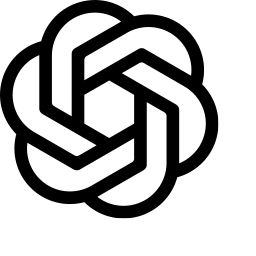
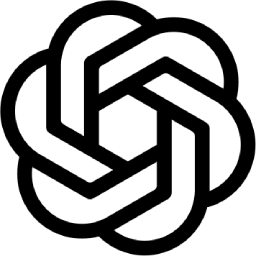
refactor(vscode): rename extension from Codex Helper to Agent Helper
Update package name, display name, command IDs, output channel name,
repository URLs, icon, and README to reflect the extension's broader
scope of supporting coding agents beyond Codex CLI.

diff --git a/vscode/src/extension.ts b/vscode/src/extension.ts
@@ -3,9 +3,9 @@ import { sendReference, type SendResult } from "./core/sendReference";
 import type { ReferenceInput } from "./core/reference";
 import { CodexTerminalRegistry } from "./vscode/terminalRegistry";
 
-const SEND_COMMAND = "codexHelper.sendToCodex";
-const SHOW_STATE_COMMAND = "codexHelper.showDetectionState";
-const OUTPUT_CHANNEL = "Codex Helper";
+const SEND_COMMAND = "agentHelper.sendToCodex";
+const SHOW_STATE_COMMAND = "agentHelper.showDetectionState";
+const OUTPUT_CHANNEL = "Agent Helper";
 
 export function activate(context: vscode.ExtensionContext): void {
   const log = vscode.window.createOutputChannel(OUTPUT_CHANNEL, { log: true });

diff --git a/vscode/README.md b/vscode/README.md
@@ -1,8 +1,8 @@
-# Codex Helper for VS Code
+# Agent Helper for VS Code
 
-Send the active editor file and selected line range to every Codex CLI instance running in the current VS Code window's integrated Terminal.
+Agent Helper sends the active editor file and selected line range to supported coding agents running in the current VS Code window's integrated Terminal. Codex CLI is currently supported.
 
-Select some lines and choose **Send to Codex ✨**. Each Codex input receives the same Reference, such as `src/Foo.ts#L10-L20`. The text is inserted but not submitted, and focus stays in the editor.
+Select some lines and choose **Send to Codex ⌨**. Each Codex input receives the same Reference, such as `src/Foo.ts#L10-L20`. The text is inserted but not submitted, and focus stays in the editor.
 
 ## Local installation
 
@@ -11,30 +11,30 @@ Select some lines and choose **Send to Codex ✨**. Each Codex input receives th
 1. Open VS Code.
 2. Open the Command Palette with **Cmd+Shift+P** on macOS or **Ctrl+Shift+P** on Windows/Linux.
 3. Run **Extensions: Install from VSIX...**.
-4. Select `vs-extension/codex-helper-0.1.0.vsix` from this repository.
+4. Select `vscode/agent-helper-0.1.0.vsix` from this repository.
 5. Reload VS Code when prompted.
 
 The equivalent terminal command is:
 
 ```sh
-cd vs-extension
-code --install-extension ./codex-helper-0.1.0.vsix --force
+cd vscode
+code --install-extension ./agent-helper-0.1.0.vsix --force
 ```
 
 If you previously installed the POC, remove its old extension ID first so the two versions do not appear side by side:
 
 ```sh
 code --uninstall-extension jianminhuang.codex-helper-poc
-code --install-extension ./codex-helper-0.1.0.vsix --force
+code --install-extension ./agent-helper-0.1.0.vsix --force
 ```
 
 ## Usage
 
 1. Start `codex` in one or more integrated Terminal tabs.
 2. Open a saved file and optionally select some lines.
-3. Choose **Send to Codex ✨** from the editor context menu, click its editor-title icon, or run it from the Command Palette.
+3. Choose **Send to Codex ⌨** from the editor context menu, click its editor-title icon, or run it from the Command Palette.
 
-There is no default keyboard shortcut. Search for **Send to Codex ✨** in **Keyboard Shortcuts** to add one.
+There is no default keyboard shortcut. Search for **Send to Codex ⌨** in **Keyboard Shortcuts** to add one.
 
 ### What gets sent
 
@@ -58,7 +58,7 @@ The extension broadcasts once to every Codex instance it detects in the current 
 - A process-tree fallback for Codex already running before extension activation or terminals without shell integration.
 - `ps` on macOS/Linux and PowerShell CIM on Windows.
 
-Run **Codex Helper: Show Detection State** from the Command Palette to inspect Terminal names, PIDs, and detection sources in the **Codex Helper** output channel.
+Run **Agent Helper: Show Detection State** from the Command Palette to inspect Terminal names, PIDs, and detection sources in the **Agent Helper** output channel.
 
 ## Requirements
 
@@ -69,7 +69,7 @@ Run **Codex Helper: Show Detection State** from the Command Palette to inspect T
 ## Development
 
 ```sh
-cd vs-extension
+cd vscode
 npm install
 npm run check
 code .
@@ -85,13 +85,13 @@ The core behavior is tested through three interfaces: Reference construction, Co
 2. Verify and package:
 
    ```sh
-   cd vs-extension
+   cd vscode
    npm ci
    npm run check
    npm run package
    ```
 
-3. Install the generated `codex-helper-VERSION.vsix` locally and repeat the Usage checks above.
+3. Install the generated `agent-helper-VERSION.vsix` locally and repeat the Usage checks above.
 4. Commit the release version and create a tag named `vscode-vVERSION`.
 5. Create a GitHub Release manually and upload the generated VSIX.
 
@@ -99,10 +99,10 @@ Publishing to the VS Code Marketplace is intentionally separate from this manual
 
 ## Uninstall
 
-Open the Extensions view, find **Codex Helper**, and choose **Uninstall**. The command-line equivalent is:
+Open the Extensions view, find **Agent Helper**, and choose **Uninstall**. The command-line equivalent is:
 
 ```sh
-code --uninstall-extension jianminhuang.codex-helper
+code --uninstall-extension jianminhuang.agent-helper
 ```
 
 ## Known limitations
@@ -110,4 +110,4 @@ code --uninstall-extension jianminhuang.codex-helper
 - VS Code's `Terminal.sendText` does not acknowledge that the terminal application consumed the input. A missing error means the extension attempted the delivery, not that Codex confirmed receipt.
 - Terminal process discovery depends on process information being visible to the VS Code extension host.
 
-Codex Helper is an independent extension and is not affiliated with or endorsed by OpenAI.
+Agent Helper is an independent extension and is not affiliated with or endorsed by OpenAI.
